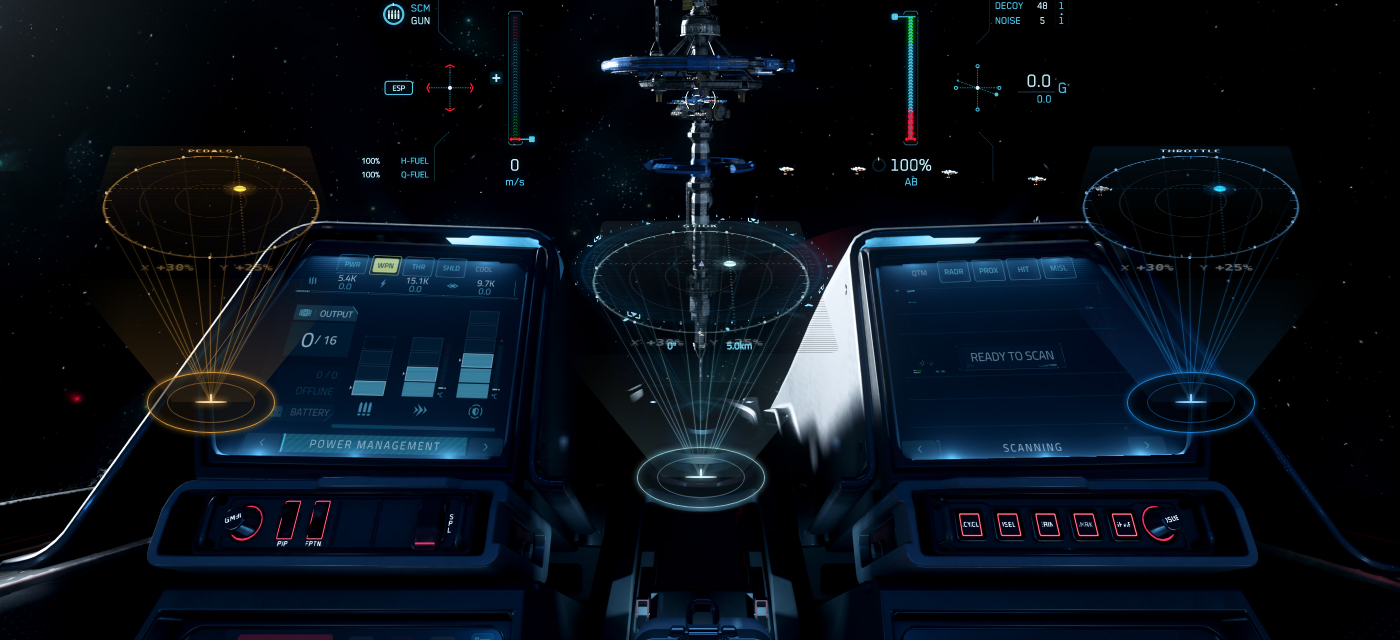
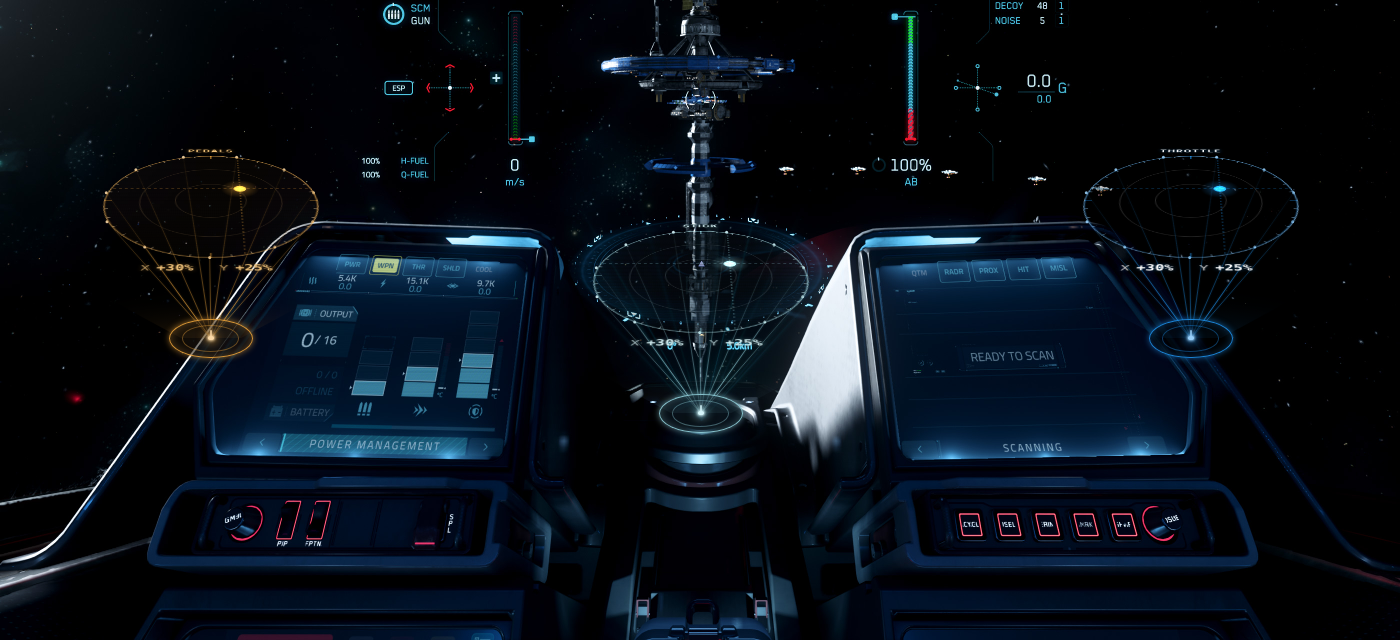
Projector: tune the look in the cockpit
Compared against the Gladius radar over the 16:9 cockpit:

- A projected radar face no longer shows a rectangle: the widget's scanlines
  and beam move onto the disc itself (the canvas background, clipped round)
  and the scan roll is clipped to the disc.
- The cone is a soft light volume (radial mask from the emitter, lower
  alphas) instead of a hard trapezoid, so the rays carry the beam.
- The base is a pedestal about a third of the widget wide (40-150 px) with a
  tight hot emitter the rays converge on, and the hologram hovers 0.45 of its
  projected extent away, so Dash Radar lands on the Gladius pedestal top
  without a Base Offset Y nudge.
- Readouts and titles stay out of the fade toward the base, so every axis
  percentage stays legible.

A profile that never turns Projector on renders pixel-identical to before.

Claude-Session: https://claude.ai/code/session_01K1BrdXTkHhSe9NjMHRf3NS

Changed region(s): [[0.43, 0.5, 0.6143, 0.8125], [0.7986, 0.375, 0.9214, 0.6875], [0.0921, 0.375, 0.215, 0.6875]]

diff --git a/StayOnTarget.html b/StayOnTarget.html
@@ -83,8 +83,10 @@ body.preview:not(.editing).has-widgets #preview-chip { display: flex; }
 .widget { z-index: 1; }
 .holo-rig { position: absolute; z-index: 0; pointer-events: none; --holo-i: 1; --holo-b: 0; }
 .holo-rig > * { position: absolute; }
-.holo-cone { background: linear-gradient(var(--holo-dir, 0deg), rgba(var(--holo-rays-rgb), calc(0.18 * var(--holo-i) + var(--holo-b))), rgba(var(--holo-rays-rgb), calc(0.02 * var(--holo-i) + var(--holo-b))));
-  -webkit-mask-image: linear-gradient(var(--holo-mdir, 90deg), transparent, #000 20%, #000 80%, transparent); mask-image: linear-gradient(var(--holo-mdir, 90deg), transparent, #000 20%, #000 80%, transparent); }
+/* The cone is a soft light volume, brightest at the emitter and gone before the widget: a radial mask anchored on the
+   base end feathers every edge, so the rays carry the beam and no hard trapezoid shows. */
+.holo-cone { background: linear-gradient(var(--holo-dir, 0deg), rgba(var(--holo-rays-rgb), calc(0.16 * var(--holo-i) + var(--holo-b))), rgba(var(--holo-rays-rgb), calc(0.03 * var(--holo-i) + 0.5 * var(--holo-b))) 60%, rgba(var(--holo-rays-rgb), 0));
+  -webkit-mask-image: radial-gradient(ellipse 58% 100% at var(--holo-mpos, 50% 100%), #000, rgba(0,0,0,0.45) 40%, transparent 92%); mask-image: radial-gradient(ellipse 58% 100% at var(--holo-mpos, 50% 100%), #000, rgba(0,0,0,0.45) 40%, transparent 92%); }
 .holo-rays { left: 0; top: 0; overflow: visible; }
 .holo-rays stop { stop-color: var(--holo-rays); }
 .holo-rays stop.a { stop-opacity: calc(0.45 * var(--holo-i) + var(--holo-b)); }
@@ -98,9 +100,10 @@ body.preview:not(.editing).has-widgets #preview-chip { display: flex; }
   box-shadow: 0 0 6px rgba(var(--holo-acc-rgb), calc(0.6 * var(--holo-i))), inset 0 0 8px rgba(var(--holo-acc-rgb), calc(0.3 * var(--holo-i))); }
 .holo-base i { position: absolute; display: block; border-radius: 50%; }
 .holo-base .ring { inset: 15%; border: 1px solid rgba(var(--holo-acc-rgb), calc(0.4 * var(--holo-i) + var(--holo-b))); }
-.holo-base .core { left: 37%; right: 37%; top: 50%; height: 2px; margin-top: -1px; background: var(--holo-core); opacity: var(--holo-i);
-  box-shadow: 0 0 6px 1px rgba(var(--holo-acc-rgb), calc(0.8 * var(--holo-i))); }
-.holo-base .slit { left: 50%; top: 50%; width: 2px; height: 8px; margin: -8px 0 0 -1px; border-radius: 1px; background: var(--holo-core); opacity: var(--holo-i); box-shadow: 0 0 4px var(--holo-core); }
+/* The emitter: a tight hot point at the center the rays converge on, with a short slit rising from it. */
+.holo-base .core { left: 50%; top: 50%; width: 6px; height: 4px; margin: -2px 0 0 -3px; background: var(--holo-core); opacity: var(--holo-i);
+  box-shadow: 0 0 3px 1px var(--holo-core), 0 0 10px 3px rgba(var(--holo-acc-rgb), calc(0.7 * var(--holo-i))); }
+.holo-base .slit { left: 50%; top: 50%; width: 2px; height: 7px; margin: -8px 0 0 -1px; border-radius: 1px; background: var(--holo-core); opacity: calc(0.8 * var(--holo-i)); box-shadow: 0 0 4px var(--holo-core); }
 .holo-rig.side-left .slit { width: 8px; height: 2px; margin: -1px 0 0 0; }      /* a side base's emitter points at the widget */
 .holo-rig.side-right .slit { width: 8px; height: 2px; margin: -1px 0 0 -8px; }
 body.editing .holo-rig.selected .holo-base { outline: 1px dashed var(--ui-accent); outline-offset: 2px; }
@@ -108,11 +111,21 @@ body.editing .holo-rig.selected .holo-base { outline: 1px dashed var(--ui-accent
    would clip the frame glow and the selection outline) and carries the per-frame opacity envelope, so the
    .offline rule on the root keeps dimming disconnected widgets. isolation keeps the Full tier's fringe blend inside. */
 .widget.holo { isolation: isolate; contain: layout paint style; }
-.widget.holo .holo-in { -webkit-mask-image: linear-gradient(var(--holo-mask-dir, 180deg), #000 0 60%, rgba(0,0,0,0.45) 100%); mask-image: linear-gradient(var(--holo-mask-dir, 180deg), #000 0 60%, rgba(0,0,0,0.45) 100%); will-change: opacity; }
-/* Scan roll: a 2px band sweeping down the widget, compositor-only. Subtle tier and up. */
-.widget.holo .holo-roll { display: none; position: absolute; inset: 0; pointer-events: none; will-change: transform;
+.widget.holo .holo-in { will-change: opacity; }
+/* The falloff toward the base is on the drawn faces only: readouts and titles stay fully legible, like the Gladius labels. */
+.widget.holo .holo-in > canvas, .widget.holo .holo-in .bars { -webkit-mask-image: linear-gradient(var(--holo-mask-dir, 180deg), #000 0 60%, rgba(0,0,0,0.5) 100%); mask-image: linear-gradient(var(--holo-mask-dir, 180deg), #000 0 60%, rgba(0,0,0,0.5) 100%); }
+.widget.holo.radar .holo-in > canvas { -webkit-mask-image: linear-gradient(var(--holo-mask-dir, 180deg), #000 0 55%, rgba(0,0,0,0.7) 100%); mask-image: linear-gradient(var(--holo-mask-dir, 180deg), #000 0 55%, rgba(0,0,0,0.7) 100%); }
+/* Scan roll: a 2px band sweeping down the widget, compositor-only. Subtle tier and up. The outer element clips it
+   (to the disc on a radar face); the band inside is what moves. */
+.widget.holo .holo-roll { display: none; position: absolute; inset: 0; overflow: hidden; pointer-events: none; }
+.widget.holo .holo-roll i { position: absolute; inset: 0; display: block; will-change: transform;
   background: linear-gradient(180deg, rgba(var(--holo-core-rgb), calc(0.15 * var(--holo-i) + var(--holo-b))) 0 2px, transparent 2px); animation: holo-roll 8s linear infinite; }
 .widget.holo.live .holo-roll { display: block; }
+/* A projected radar face: scanlines live on the disc itself (the canvas background, clipped round) instead of the
+   widget's rectangle, so nothing square shows around the disc. */
+.widget.holo.radar .holo-in > canvas { border-radius: 50%; }
+.widget.holo.radar .holo-in > canvas { background-image: repeating-linear-gradient(180deg, rgba(0,0,0,0) 0 2px, rgba(0,0,0,0.2) 2px 3px), var(--holo-face, none); }
+.widget.holo.radar.bright .holo-in > canvas { background-image: repeating-linear-gradient(180deg, rgba(0,0,0,0) 0 2px, rgba(var(--holo-acc-rgb), 0.15) 2px 3px), var(--holo-face, none); }
 @keyframes holo-roll { from { transform: translateY(-2px); } to { transform: translateY(100%); } }
 /* Bright footage: dark scanlines vanish over clouds, so they become lines of the highlight color instead. */
 .widget.holo.bright.scan::after { background: repeating-linear-gradient(180deg, rgba(0,0,0,0) 0 2px, rgba(var(--holo-acc-rgb), 0.15) 2px 3px), linear-gradient(180deg, var(--beam, transparent), transparent 65%); }
@@ -132,7 +145,7 @@ body.editing .holo-rig.selected .holo-base { outline: 1px dashed var(--ui-accent
 /* A projected Button's press flashes the base's core for 120 ms. */
 .holo-base .core { transition: transform 120ms, opacity 120ms; }
 .holo-rig.pulse .core { opacity: 1; transform: scale(1.6, 2); }
-@media (prefers-reduced-motion: reduce) { .widget.holo .holo-roll, .holo-dust, .holo-photon { display: none; } .holo-rig.full .holo-base { animation: none; } }
+@media (prefers-reduced-motion: reduce) { .widget.holo .holo-roll i, .holo-dust, .holo-photon { display: none; } .holo-rig.full .holo-base { animation: none; } }
 .looks { display: grid; grid-template-columns: repeat(3, 1fr); gap: 0.4rem; margin: 0.4rem 0 0.6rem; }
 .look-tile { display: flex; flex-direction: column; align-items: center; gap: 0.4rem; padding: 0.55rem 0.25rem 0.4rem; min-height: 0; font-size: 0.78rem; font-weight: 600; line-height: 1.2; text-align: center; }
 .look-tile[aria-pressed=true] { border-color: var(--ui-accent); box-shadow: inset 0 0 0 1px var(--ui-accent); }
@@ -927,7 +940,7 @@ function buildWidget(w) {
     rt.canvas = makeCanvas(D.box * k, D.box * k);
     // A projected radar's faint face fill is CSS on the canvas element, painted once and kept out of the canvas
     // pixels, so the Full tier's fringe copies only the rings and ticks, not a tinted disc.
-    if (holo.on && w.face === "radar") rt.canvas.style.background = `radial-gradient(circle closest-side, ${hexA(w.bg || profile.settings.panel, 0.25)} 98%, transparent 100%)`;
+    if (holo.on && w.face === "radar") rt.canvas.style.setProperty("--holo-face", `radial-gradient(circle closest-side, ${hexA(w.bg || profile.settings.panel, 0.25)} 98%, transparent 100%)`);
     root.append(...[title, rt.canvas, readout(
       el("span", {}, lab("X"), span("x")), el("span", {}, lab("Y"), span("y")))].filter(Boolean));
   } else if (w.type === "throttle" || w.type === "axis") {
@@ -974,7 +987,12 @@ function buildWidget(w) {
     // Hologram treatment on top of the Cockpit Look: the content moves into a wrapper that fades toward the base,
     // a scan-roll band on top, and a firm border so readouts stay legible over bright footage.
     const inner = el("div", { class: "holo-in" }); inner.append(...root.childNodes);
-    root.append(inner, el("i", { class: "holo-roll" })); rt.inner = inner;
+    const roll = el("i", { class: "holo-roll" }, el("i"));
+    root.append(inner, roll); rt.inner = inner;
+    rt.roll = roll;
+    // A radar disc stands alone, like the Gladius radar: no rectangle of scanlines or beam around it (the disc carries
+    // its own, see .widget.holo.radar), and the roll is clipped to it once attachHolo knows where the disc sits.
+    if (w.type === "stick" && w.face === "radar") { root.classList.add("radar"); root.classList.remove("scan"); }
     root.style.setProperty("--holo-mask-dir", { below: "180deg", above: "0deg", left: "270deg", right: "90deg" }[holo.base.side] || "180deg");
     const tier = holoTier(holo), bright = holo.footage === "bright";
     root.classList.toggle("live", tier !== "static"); root.classList.toggle("bright", bright);
@@ -1007,6 +1025,7 @@ function holoSprite(rt, color) {
 // widget where the browser draws it. Laid out once from the widget's projected corners; moving the widget just
 // moves the rig, and nothing in it changes size per frame.
 const rgbOf = hex => { const n = parseInt((normHex(hex) || "#ffffff").slice(1), 16); return `${n >> 16},${(n >> 8) & 255},${n & 255}`; };
+const holoBaseDiam = len => clamp(0.36 * len, 40, 150);   // the pedestal's width at Base Size 100%, from the widget's width (or height for a side base)
 const holoSquash = deg => clamp(HOLO_SQUASH[0] + HOLO_SQUASH[1] * Math.abs(Math.sin((deg || 0) * Math.PI / 180)), 0, 0.75);
 const holoColorsOf = w => deriveHolo({ accent: w.accent || profile.settings.accent, border: w.border || "", bg: w.bg || profile.settings.panel });
 function setHoloVars(e, d, h) {
@@ -1045,6 +1064,7 @@ function attachHolo(w, rt) {
   rt.W = root.offsetWidth; rt.H = root.offsetHeight;
   // A radar disc takes its rays on the rim, like the Gladius; everything else on the edge facing the base.
   rt.holoDisc = w.type === "stick" && w.face === "radar" && rt.canvas ? { x: rt.canvas.offsetLeft + rt.canvas._w / 2, y: rt.canvas.offsetTop + rt.canvas._h / 2, r: rt.canvas._w / 2 } : null;
+  if (rt.holoDisc) Object.assign(rt.roll.style, { left: (rt.holoDisc.x - rt.holoDisc.r) + "px", top: (rt.holoDisc.y - rt.holoDisc.r) + "px", width: rt.holoDisc.r * 2 + "px", height: rt.holoDisc.r * 2 + "px", borderRadius: "50%" });
   rt.holoPhase = rt.holoPhase ?? Math.random() * 100;   // so widgets never flicker in unison
   const rig = el("div", { class: "holo-rig", "data-for": w.id });
   setHoloVars(rig, rt.holoColors, h);
@@ -1124,12 +1144,15 @@ function layoutHolo(w, rt, idle = HOLO_STILL) {
   const P = (x, y) => projectPt(m, x, y), p = { ...PERSP_DEFAULT, ...(w.persp || {}) };
   const c = rt.holoCorners = [[0, 0], [W, 0], [W, H], [0, H]].map(([x, y]) => P(x, y));
   const vert = side === "below" || side === "above";
-  // Base: about half the widget wide, centered under (over, beside) the facing edge, squashed like the dash it sits on.
-  const diam = clamp(0.55 * (vert ? W : H), 48, 220) * (h.base.size || 100) / 100, sq = holoSquash(vert ? p.rx : p.ry);
+  // Base: a pedestal about a third of the widget wide, centered under (over, beside) the facing edge, squashed like
+  // the dash it sits on. The hologram hovers 0.45 of its projected extent away: a disc lying nearly flat (Dash Radar)
+  // sits closer to its emitter than an upright panel, which is how the Gladius pedestal sits under its radar.
+  const diam = holoBaseDiam(vert ? W : H) * (h.base.size || 100) / 100, sq = holoSquash(vert ? p.rx : p.ry);
   const bw = vert ? diam : diam * sq, bh = vert ? diam * sq : diam;
   const edge = { below: [c[3], c[2]], above: [c[0], c[1]], left: [c[0], c[3]], right: [c[1], c[2]] }[side];
   let bx = (edge[0].x + edge[1].x) / 2, by = (edge[0].y + edge[1].y) / 2;
-  const gap = 0.45 * (vert ? H : W);
+  const extent = vert ? Math.max(...c.map(q => q.y)) - Math.min(...c.map(q => q.y)) : Math.max(...c.map(q => q.x)) - Math.min(...c.map(q => q.x));
+  const gap = 0.45 * extent;
   if (side === "below") by = Math.max(edge[0].y, edge[1].y) + gap;
   else if (side === "above") by = Math.min(edge[0].y, edge[1].y) - gap;
   else if (side === "left") bx = Math.min(edge[0].x, edge[1].x) - gap;
@@ -1157,13 +1180,13 @@ function layoutHolo(w, rt, idle = HOLO_STILL) {
   });
   if (rt.debugDots) rt.debugDots.forEach((e, i) => { e.setAttribute("cx", f(c[i].x + ox)); e.setAttribute("cy", f(c[i].y + oy)); });
   // Cone: a trapezoid from the base's rim to the two ends of the facing edge, clipped on an element sized to its own bounds.
-  const nr = vert ? [{ x: bx - bw * 0.3, y: by }, { x: bx + bw * 0.3, y: by }] : [{ x: bx, y: by - bh * 0.3 }, { x: bx, y: by + bh * 0.3 }];
+  const nr = vert ? [{ x: bx - bw * 0.35, y: by }, { x: bx + bw * 0.35, y: by }] : [{ x: bx, y: by - bh * 0.35 }, { x: bx, y: by + bh * 0.35 }];
   const poly = [edge[0], edge[1], nr[1], nr[0]];
   const cx0 = Math.min(...poly.map(q => q.x)), cy0 = Math.min(...poly.map(q => q.y)), cw = Math.max(...poly.map(q => q.x)) - cx0, ch = Math.max(...poly.map(q => q.y)) - cy0;
   Object.assign(rt.coneEl.style, { left: f(cx0 + ox) + "px", top: f(cy0 + oy) + "px", width: f(cw) + "px", height: f(ch) + "px",
     clipPath: "polygon(" + poly.map(q => `${f(q.x - cx0)}px ${f(q.y - cy0)}px`).join(", ") + ")" });
   rt.coneEl.style.setProperty("--holo-dir", { below: "0deg", above: "180deg", left: "90deg", right: "270deg" }[side]);
-  rt.coneEl.style.setProperty("--holo-mdir", vert ? "90deg" : "180deg");
+  rt.coneEl.style.setProperty("--holo-mpos", { below: "50% 100%", above: "50% 0%", left: "0% 50%", right: "100% 50%" }[side]);
   rt.rig.classList.toggle("side-left", side === "left"); rt.rig.classList.toggle("side-right", side === "right");
 }
 // Ray targets: evenly spaced along the edge facing the base (plus the two far corners at half alpha), or around
@@ -2505,12 +2528,12 @@ function projectorSection(p, ws) {
 // keeps converging when dragged together.
 function projectFromOneBase(ws) {
   const u = unionBox(ws), cx = u.x + u.w / 2, cy = u.y + u.h + clamp(0.45 * u.h, 30, 120);
-  const left = ws.reduce((a, b) => b.x < a.x ? b : a), diam = clamp(0.55 * u.w, 48, 220);
+  const left = ws.reduce((a, b) => b.x < a.x ? b : a), diam = holoBaseDiam(u.w);
   for (const w of ws) {
     const rt = runtime[w.id]; if (!rt || !rt.rig) continue;
     w.holo.base.side = "below"; layoutHolo(w, rt);   // natural base position first, then the offset to the shared one
     w.holo.base.dx = Math.round(cx - (w.x + rt.holoBase0.x)); w.holo.base.dy = Math.round(cy - (w.y + rt.holoBase0.y));
-    w.holo.base.size = Math.round(diam / clamp(0.55 * rt.W, 48, 220) * 100);
+    w.holo.base.size = Math.round(diam / holoBaseDiam(rt.W) * 100);
     if (w === left) delete w.holo.base.hidden; else w.holo.base.hidden = true;
   }
 }
